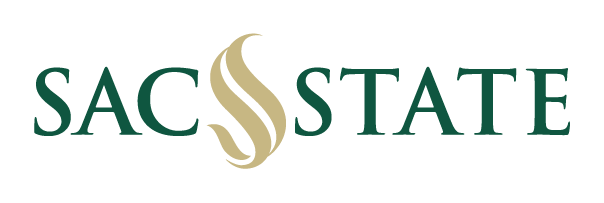
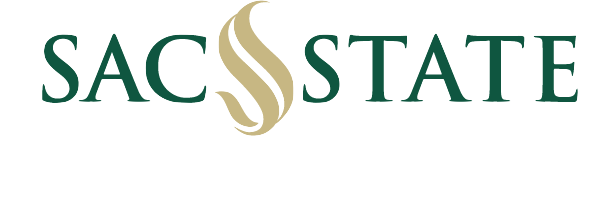
.

Changed region(s): [[0.0298, 0.0, 0.9834, 0.8571]]

diff --git a/newSHPE/index.html b/newSHPE/index.html
@@ -24,7 +24,9 @@
 
 <body>
   <div class="jumbotron" style="margin-bottom:0">
-    <h1><img src="./img/h_shpe_logo.png" alt="SHPE Logo" height="52px" align="left" hspace="10"> | SacState</h1>
+    <h1>
+      <img src="./img/h_shpe_logo.png" alt="SHPE Logo" height="50px" align="left" hspace="10">|<img src="./img/h_sacstate.png" alt="SHPE Logo" height="75px" style="margin-bottom: -15px;">
+    </h1>
   </div>
 
   <!--Navigation Start-->
